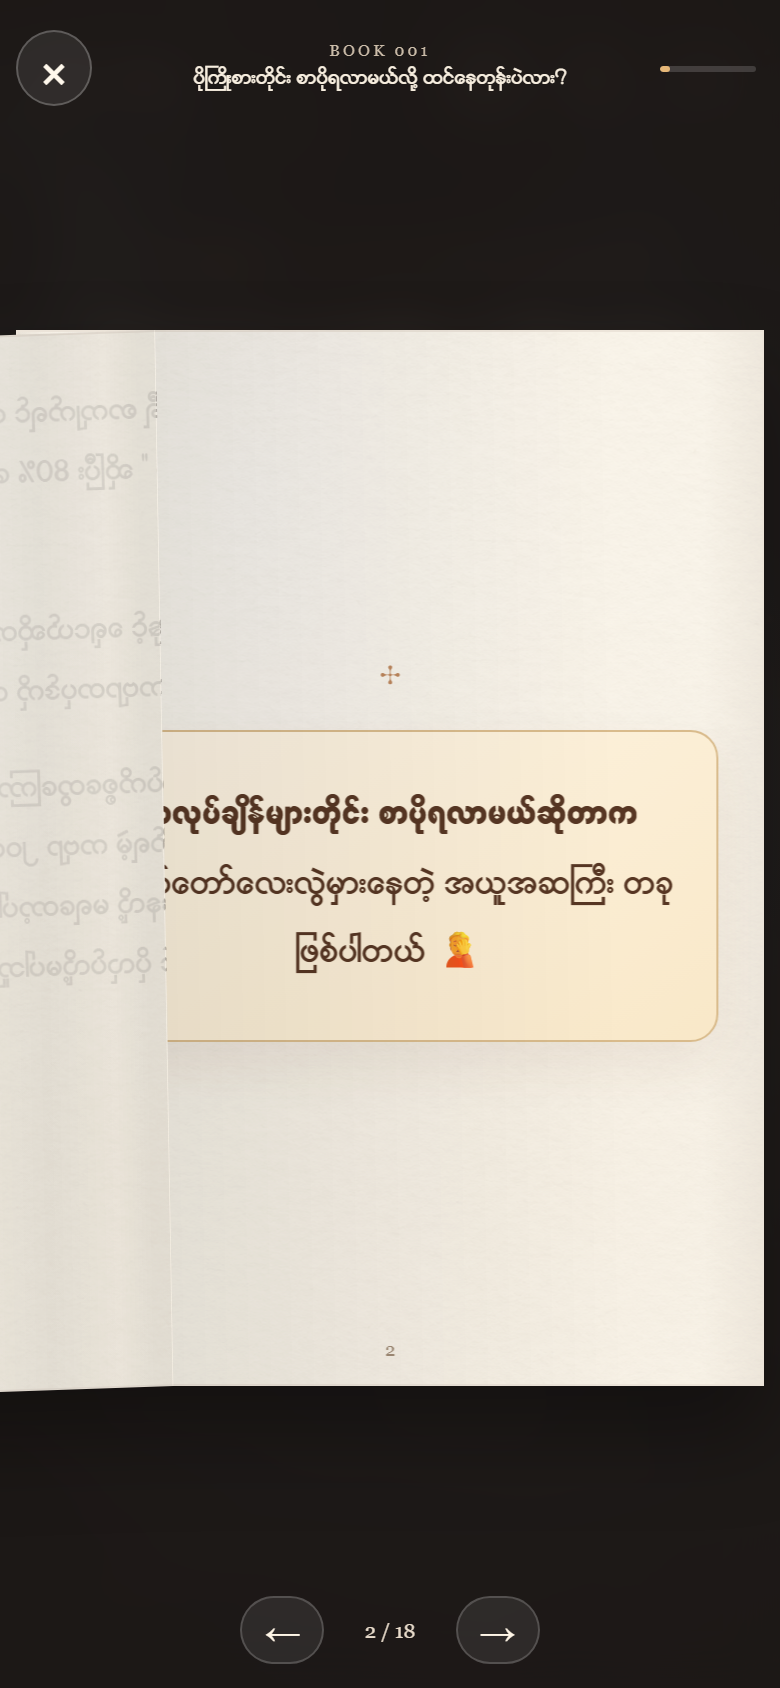
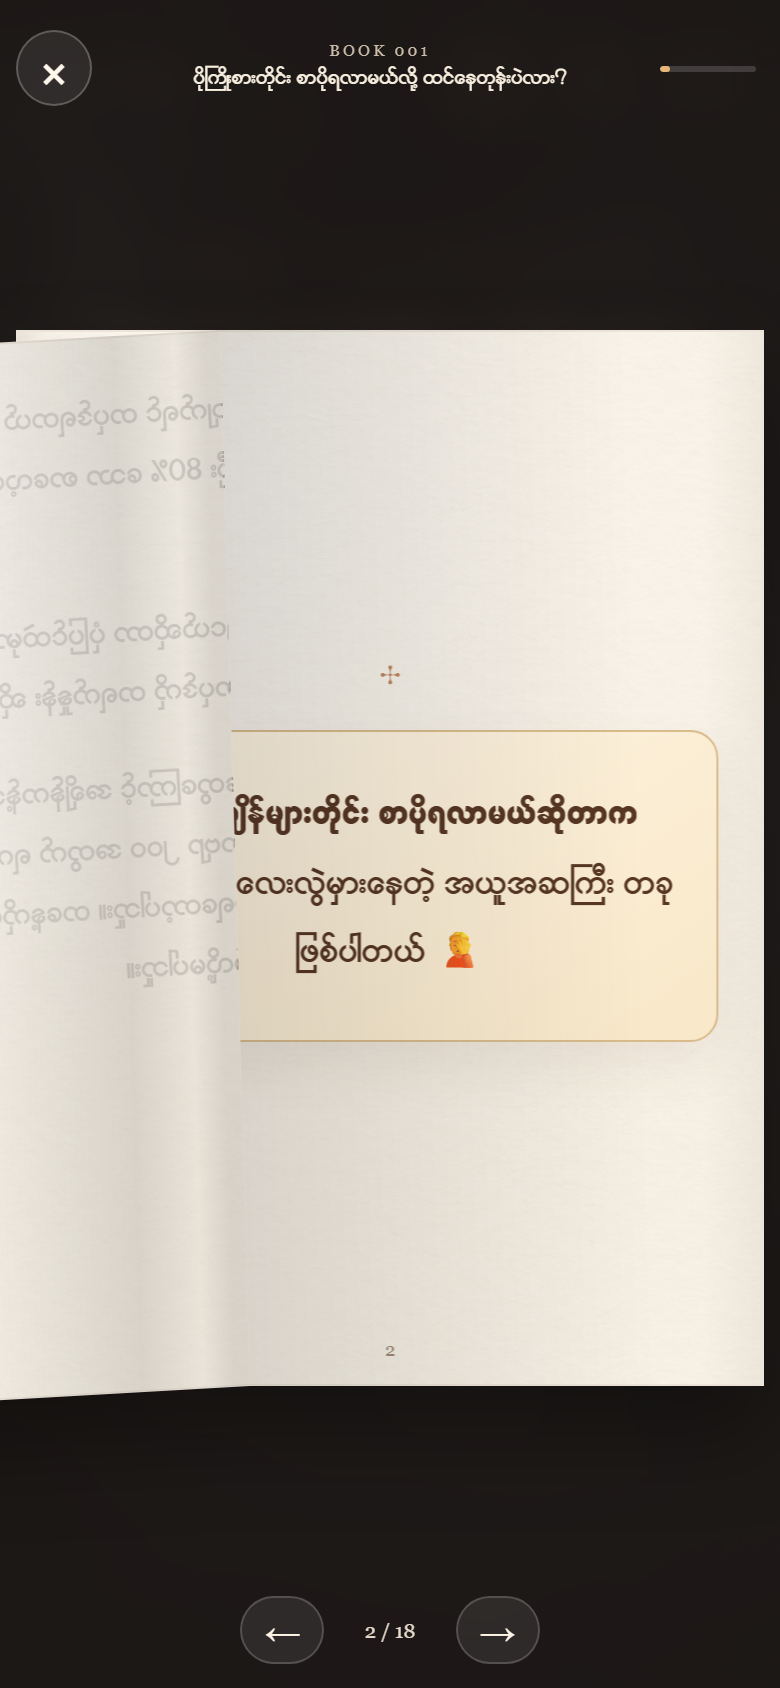
less blur

diff --git a/src/globals.css b/src/globals.css
@@ -1596,9 +1596,9 @@ button { font: inherit; }
     position: absolute;
     inset: 0;
     color: #665d54;
-    filter: grayscale(.9) sepia(.28) saturate(.42) contrast(.62) blur(.35px);
+    filter: grayscale(.9) sepia(.28) saturate(.42) contrast(.62) blur(.25px);
     mix-blend-mode: multiply;
-    opacity: .2;
+    opacity: .3;
     transform: scaleX(-1);
     transform-origin: center;
   }
